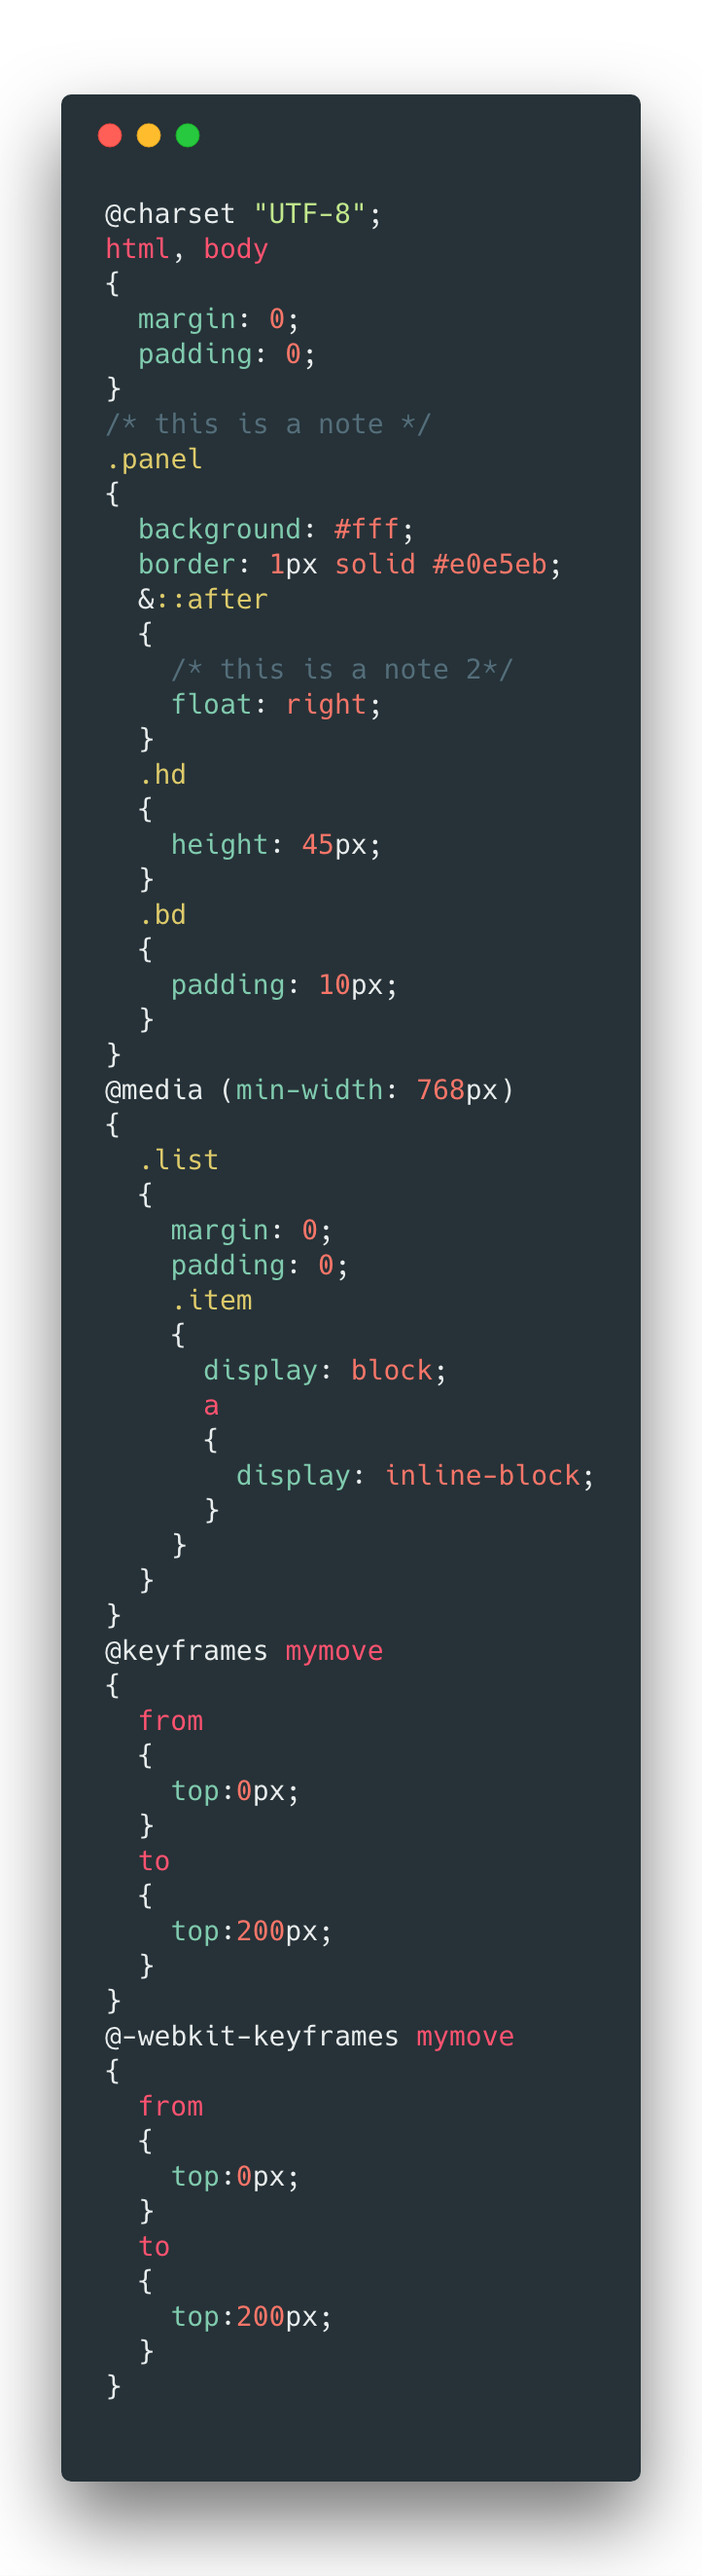
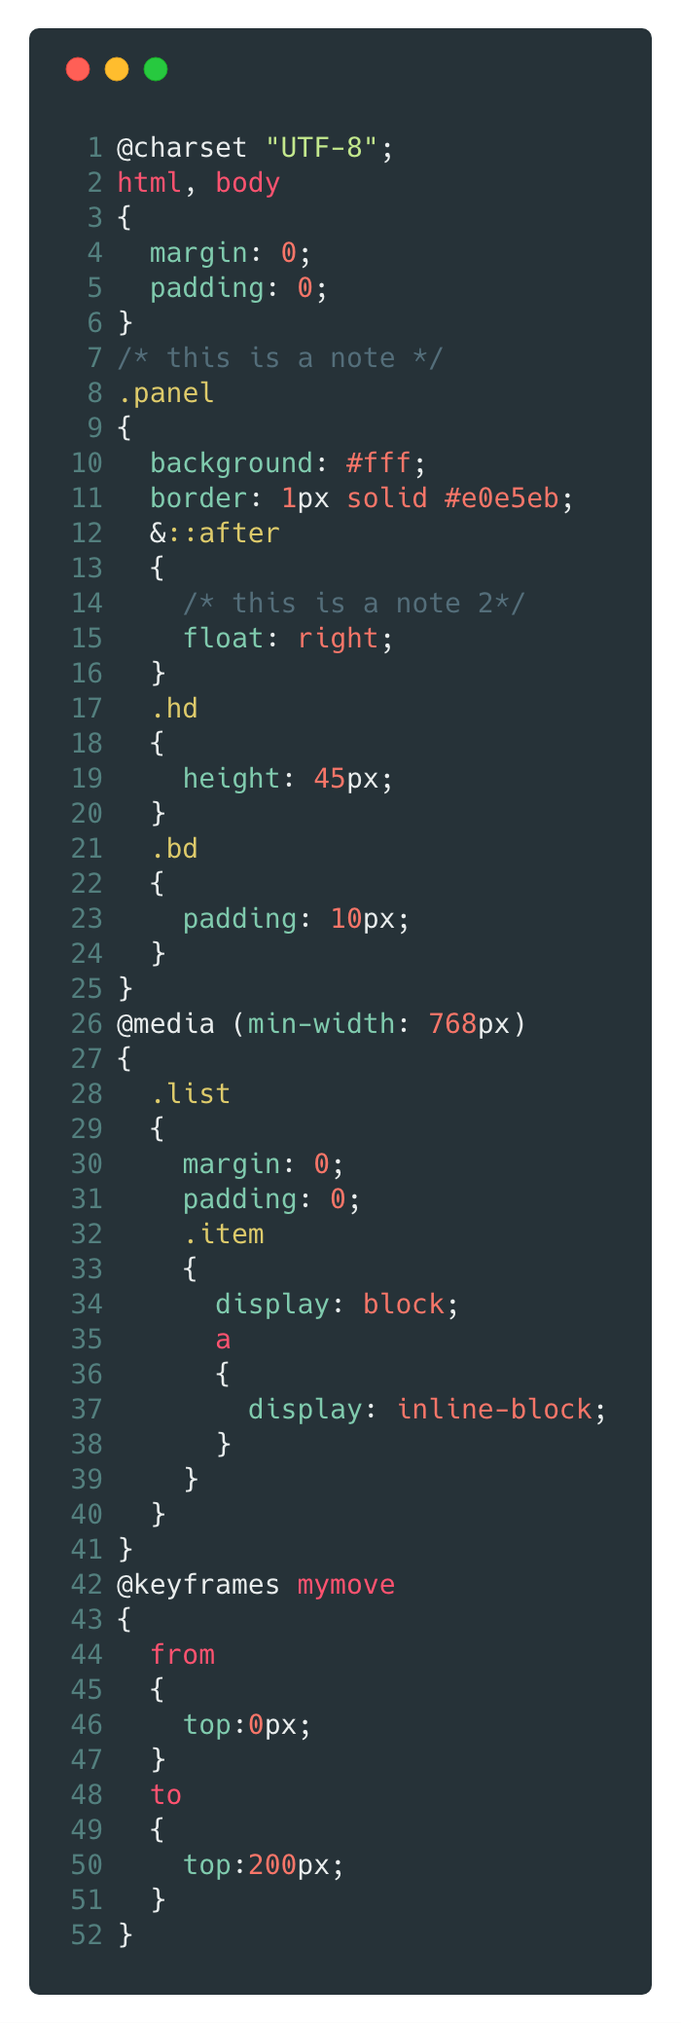
update

diff --git a/demo/style2.css b/demo/style2.css
@@ -1,7 +1,7 @@
 @charset "UTF-8";
 html, body {margin: 0; padding: 0;}
 /* this is a note */
-.panel { background: #fff;border: 1px solid #e0e5eb;}
+.panel {background: #fff;border: 1px solid #e0e5eb;}
 .panel::after {float: right; /* this is a note 2*/}
 .panel .hd {height: 45px;}
 .panel .bd {padding: 10px;}
@@ -10,8 +10,7 @@ html, body {margin: 0; padding: 0;}
   .list .item {display: block;}
   .list .item a {display: inline-block;}
 }
-@keyframes mymove
-{
+@keyframes mymove {
   from {top:0px;}
   to {top:200px;}
 }

diff --git a/demo/style2.conv.less b/demo/style2.conv.less
@@ -50,14 +50,4 @@ html, body
     top:200px;
   }
 }
-@-webkit-keyframes mymove
-{
-  from
-  {
-    top:0px;
-  }
-  to
-  {
-    top:200px;
-  }
-}
+

diff --git a/README.md b/README.md
@@ -13,10 +13,6 @@
 
 ------
 
-
-<img width="45%" style="margin-right: 8%; float: left;" src="https://github.com/biorz/css2pre/blob/master/demo/css.png"/>
-<img width="45%" style="float: right;" src="https://github.com/biorz/css2pre/blob/master/demo/sass.png"/>
-
 ## 优点
 最大兼容，在保留原css顺序，注释等内容的基础上，最小合并相邻的块；
 
@@ -33,3 +29,6 @@ let less = css2pre('html, body{ margin:0;padding:0; }')
 - [x] 保留注释
 - [x] 保留顺序
 - [ ] 浏览器私有前缀
+
+<img src="https://github.com/biorz/css2pre/blob/master/demo/css.png"/>
+<img src="https://github.com/biorz/css2pre/blob/master/demo/sass.png"/>
